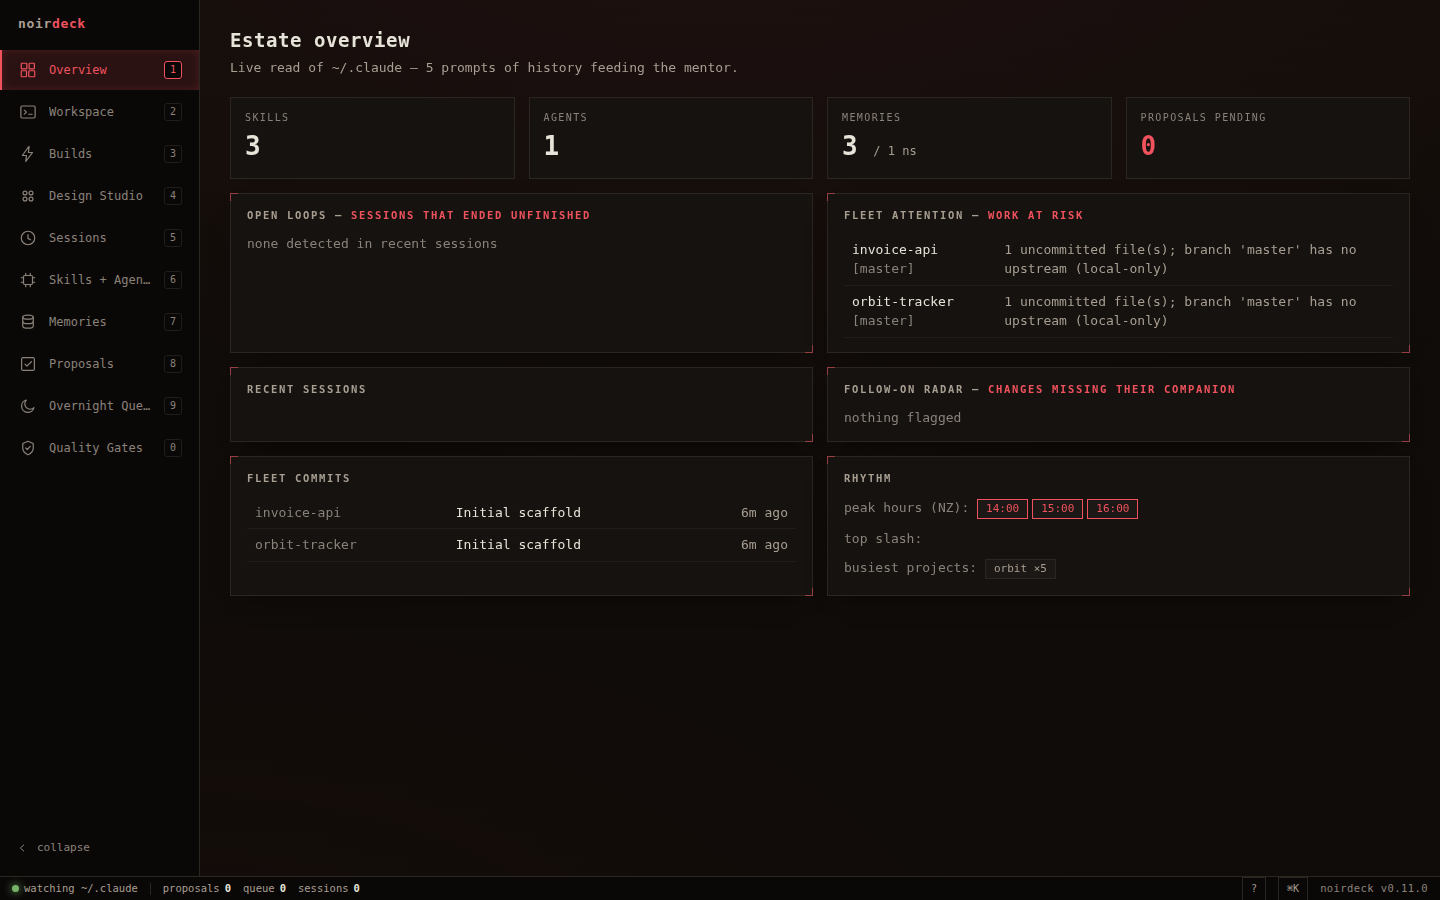
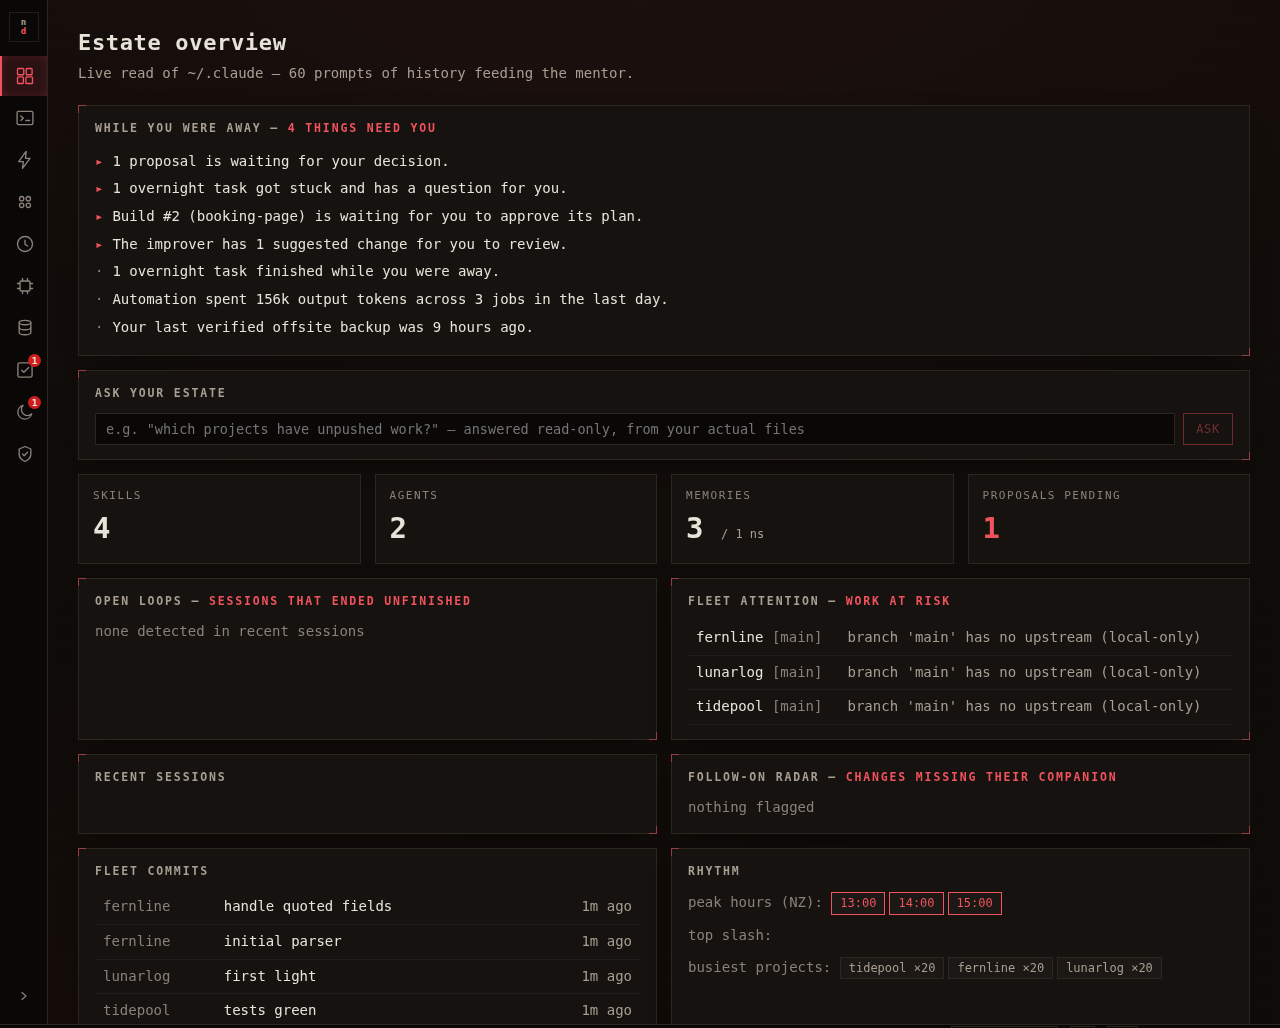
noirdeck v0.20.0 docs — refreshed README and screenshots
- README now tells the whole story: the morning digest, ask-your-estate,
  recipe cards, try-it preview, universal undo, session pause/resume, the
  Vault (restore-verified offsite backups), the local-model Improve engine,
  and a "Cheap to run, by design" section covering weight-routed tasks,
  context packs, the review policy, and the visible daily spend line
- Screenshots re-taken against a synthetic demo estate

diff --git a/README.md b/README.md
@@ -2,8 +2,8 @@
 
 **The dark console for your Claude Code estate.** A local companion platform —
 live dashboard, IDE-feel workspace, autonomous pipelines with enforced guardrails,
-and a code mentor, all at `http://127.0.0.1:4747`, all on your own machine,
-nothing leaving the box.
+and a plain-English front door for people who don't read code, all at
+`http://127.0.0.1:4747`, all on your own machine, nothing leaving the box.
 
 > Crimson on warm black, scanlines, one signal colour. Noir by design.
 
@@ -14,26 +14,39 @@ nothing leaving the box.
 **Sees the whole estate, live**
 - Reads `~/.claude` — skills, agents, memory namespaces, session history — and
   `~/projects` (the git fleet), refreshed by a filesystem event stream (SSE).
+- **The morning digest**: the Overview opens with "while you were away" in plain
+  English — what finished overnight, what's stuck with a question for you, what's
+  waiting on your approval, when your last *verified* backup ran, and what the
+  automation spent. Every line assembled deterministically from state, never by
+  a model.
+- **Ask your estate**: type a question ("which projects have unpushed work?") and
+  a read-only session answers it from your actual files — its tool set is
+  Read/Grep/Glob only, so it *cannot* change anything while answering.
 - Estate overview: stat tiles, open loops (sessions that ended unfinished), fleet
-  attention (uncommitted/unpushed work), follow-on radar (schema changes missing
-  tests, env-contract drift), recent sessions with one-click resume.
-- History intelligence over every prompt ever typed: repeated asks, skill gaps.
+  attention (uncommitted/unpushed work), follow-on radar, session history
+  intelligence over every prompt ever typed.
 
 **Works like an IDE**
 - VS Code-style shell: activity bar (pops out to a labelled sidebar, `Ctrl+B`),
-  status bar, command palette (`Ctrl+K`) over your skills + the full Claude Code
-  reference, quick keys (`1`–`0` views, `?` cheat sheet with session keys, slash
-  commands, and CLI flags verified against the installed CLI).
+  status bar with live telemetry (stream state, pending approvals, backup age),
+  command palette (`Ctrl+K`), quick keys (`1`–`0` views, `?` cheat sheet with the
+  full Claude Code reference, verified against the installed CLI).
 - Workspace: real `claude` sessions in the browser (PTY + xterm), project file
-  explorer, read-only file tabs, one-click "review structure" / "tidy comments &
-  legacy" actions — live in a terminal or queued for overnight.
+  explorer, read-only file tabs with syntax highlighting — and sessions can be
+  **paused across restarts and resumed later**, exact conversation and all.
+- Views deep-link (`#builds`, `#queue`…): refresh, bookmarks and the back button
+  keep your place.
 
-**Builds and improves autonomously — inside hard boundaries**
-- **Guided Build**: a plain-English intake interview compiles a professional
-  brief; the pipeline plans first and **parks for your approval** — nothing is
-  built until you approve the plan in plain English. Finishes with your own
-  acceptance checklist and a deterministic evidence pack (commits, tests,
-  gates) assembled by code, not a model.
+**Builds software for you — no code knowledge required**
+- **Guided Build**: pick a **recipe card** (a booking page, a team tracker, a
+  quote calculator…) or answer a short plain-English interview; the tool compiles
+  a professional brief, plans first, and **parks for your approval** — nothing is
+  built until you approve the plan in plain English. It finishes with your own
+  acceptance checklist and a deterministic evidence pack (commits, tests, gates)
+  assembled by code, not a model.
+- **Try it**: when a finished build has a web page, a *try it — see it working*
+  button opens the actual app in a sandboxed frame, right on the build card.
+  You judge software by using it, not by reading a report.
 - **Builds (expert)**: full brief in → code-ready software out. Five phases
   (plan → build → test → review → finish) with per-phase model routing, QA gates
   run *between* phases outside the LLM, crash-nets, and resume from the last
@@ -43,10 +56,50 @@ nothing leaving the box.
 - **Design Studio**: propose a brief → three parallel design directions
   (8-direction × 6-library deck: Fluent 2, Material 3, IBM Carbon, Ant, shadcn,
   or bespoke) rendered as sandboxed live mocks → human Apply gate.
-- **Miner**: mines session history for skill gaps and memory consolidation
-  candidates → drafts proposals. **Hygiene**: dedupe/tidy findings over memories
-  and skills (exact/near dupes, token-diet offenders, index drift) → propose-only
-  merges.
+
+**Improves itself quietly, and protects its own memory**
+- **Improve**: a *local* model (via Ollama — zero cloud calls, zero cost) quietly
+  proposes docstring/comment/README improvements on branches, inside a trust
+  cage: temporary worktree, AST-verified that executable code is unchanged, test
+  gate, human merge. It **learns from your decisions** — kinds you keep
+  discarding go quiet, per repo. Skills and memory notes can be targets too,
+  each individually armed with an expiry, output only via proposals.
+- **Miner + hygiene**: mines session history for skill gaps and drafts them as
+  proposals; finds duplicate/oversized memory notes and proposes merges.
+  Originals are never deleted by automation.
+- **The Vault**: nightly encrypted offsite backup (restic) of your memories,
+  skills, agents, rules and the noirdeck state — plus bundles of any repo with
+  unpushed work — with an actual **restore test**, byte-for-byte verified. The
+  status bar shows time since the last *verified* restore, because a backup that
+  has never been restored is a hope, not a backup.
+
+**Every applied change is reversible**
+- Approving a proposal snapshots what it replaces. One click reverts it —
+  restoring the previous content or removing the file the approval created — and
+  it refuses to clobber hand-edits made since, unless you confirm. Fear of
+  breaking things is the real barrier for non-experts; undo removes it.
+
+## Cheap to run, by design
+
+The harness is code, not model calls: the dashboard, digest, QA gates, evidence
+packs, hygiene scans and briefings all cost **zero tokens**. Where models do run,
+the spend is engineered:
+
+- **Weight-routed tasks** — small tasks get one cheap session; heavy ones
+  (architecture, migrations, security, long briefs) automatically stage
+  *plan → build → check*: a thinking model plans in a **read-only cage** (it
+  literally cannot edit), a cheaper model executes the brief, and a review model
+  checks once. A failed plan falls back to single-session — staging never costs
+  you a night.
+- **Context packs** — the harness computes each project's briefing (layout, test
+  command, recent commits, dirty state, memory index) *in code* and prepends it,
+  so sessions skip their token-hungry discovery wander.
+- **Reviews only when they earn it** — one deterministic rule decides whether a
+  paid review pass can add value: security-flagged paths always review, anything
+  unmeasurable reviews (fail-safe), and small clean changes with green gates
+  skip it — logged, never silent.
+- **A visible bill** — the digest reports what automation spent, daily, and
+  arming contracts hard-cap tokens per run.
 
 ## The safety model
 
@@ -56,12 +109,13 @@ Four layers, all fail-closed:
    PreToolUse hook (`ops/pipeline-guard.py`) that denies `git push`, publishing,
    deploys, kubernetes/terraform mutation, and remote access *before execution*.
    Not a prompt instruction — a harness boundary, verified against a live session.
-2. **Propose → approve** — the only write path into `~/.claude` is proposal
-   approval in the UI, allowlisted to `skills/` and one memory namespace,
-   traversal-checked, audited. Originals are never deleted by automation.
-3. **Arming contracts** — autonomous subsystems (overnight, mining) need the env
-   master flag *and* a live contract: expiring, task-budgeted, token-budgeted,
-   revocable, re-checked before every task. An armed system disarms itself.
+2. **Propose → approve → revert** — the only write path into `~/.claude` is
+   proposal approval in the UI, allowlisted to `skills/` and one memory
+   namespace, traversal-checked, audited, and reversible after the fact.
+3. **Arming contracts** — autonomous subsystems (overnight, mining, improve)
+   need the env master flag *and* a live contract: expiring, task-budgeted,
+   token-budgeted, revocable, re-checked before every task. An armed system
+   disarms itself.
 4. **Browser boundary** — binds `127.0.0.1` only, with Host + Origin allowlists
    against DNS rebinding and cross-origin WebSocket hijack (the workspace WS is
    shell-equivalent; never tunnel it without auth). All transcript text passes
@@ -80,8 +134,8 @@ including what the autonomous subsystems did while you slept.
   `claude-sonnet-5` for building, `claude-opus-4-8` for review). If your install
   doesn't resolve those ids, override with `NOIRDECK_MODEL_THINK` /
   `NOIRDECK_MODEL_BUILD` / `NOIRDECK_MODEL_REVIEW`.
-- Pipelines run `claude -p` with `--permission-mode acceptEdits`, inside the
-  PreToolUse guard described below.
+- Optional: **[Ollama](https://ollama.com)** with a local code model for the
+  Improve engine (everything else works without it).
 
 ## Run it
 
@@ -97,11 +151,14 @@ mkdir -p ~/.config/systemd/user && cp ops/noirdeck*.{service,timer} ~/.config/sy
 systemctl --user daemon-reload && systemctl --user enable --now noirdeck.service
 ```
 
+First run is deliberately quiet: everything autonomous ships **disarmed**. You
+get the dashboard, workspace, digest and builds immediately; overnight runs,
+mining and the improver each need you to arm a contract in the Queue view first.
+
 Config (env): `NOIRDECK_CLAUDE_DIR` (default `~/.claude`), `NOIRDECK_PROJECTS_DIR`
 (`~/projects`), `NOIRDECK_DB_PATH`, `NOIRDECK_PRIMARY_NAMESPACE` (defaults to your
 home-directory namespace), and the master arming flags `NOIRDECK_MINING_ARMED` /
-`NOIRDECK_OVERNIGHT_ARMED` (default **off**; arming also requires a live,
-expiring contract created in the Queue view).
+`NOIRDECK_OVERNIGHT_ARMED` / `NOIRDECK_IMPROVER_ARMED` (default **off**).
 
 State: single SQLite file (`data/noirdeck.db`, WAL, additive-only migrations).
 
@@ -117,7 +174,7 @@ with pinned model IDs per task class. UI meets WCAG 2.1 AA: full keyboard
 operability, focus management and dialog traps, screen-reader landmarks and
 labels, AA contrast throughout, `prefers-reduced-motion` respected.
 
-![guided build plan gate](docs/screenshots/guided.png)
+![guided build](docs/screenshots/guided.png)
 
 **Eight built-in themes** — noir (default), instrument, aurora, brutalist,
 editorial, botanical, swiss, neo-material — switchable from the status bar,
